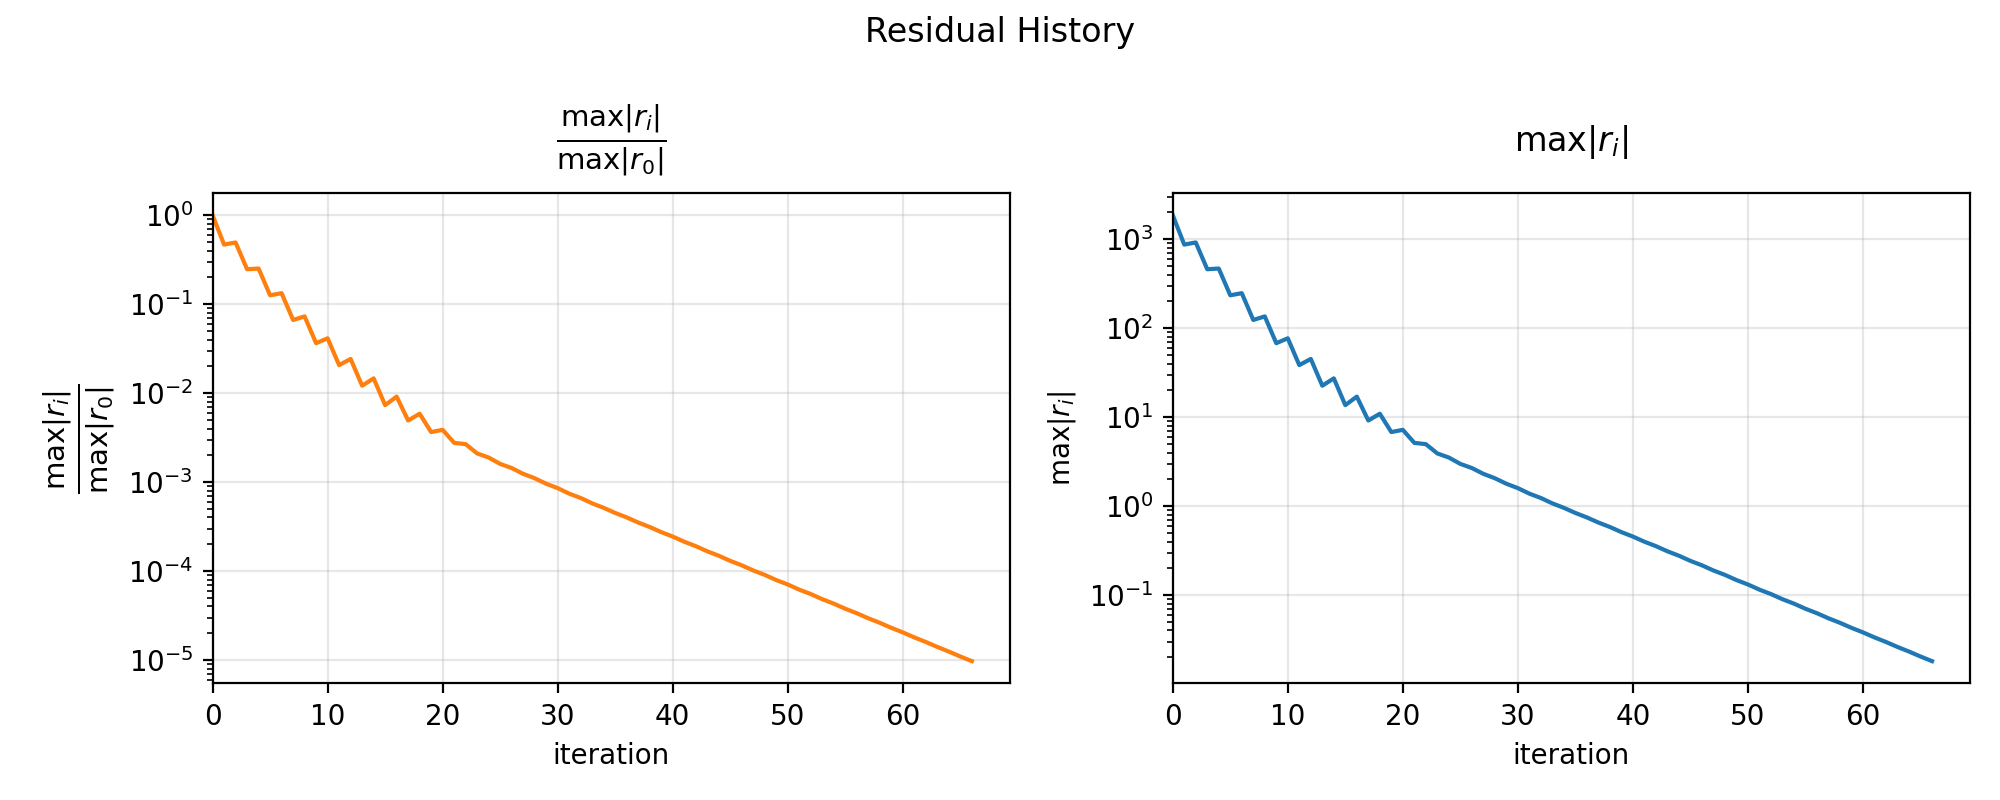
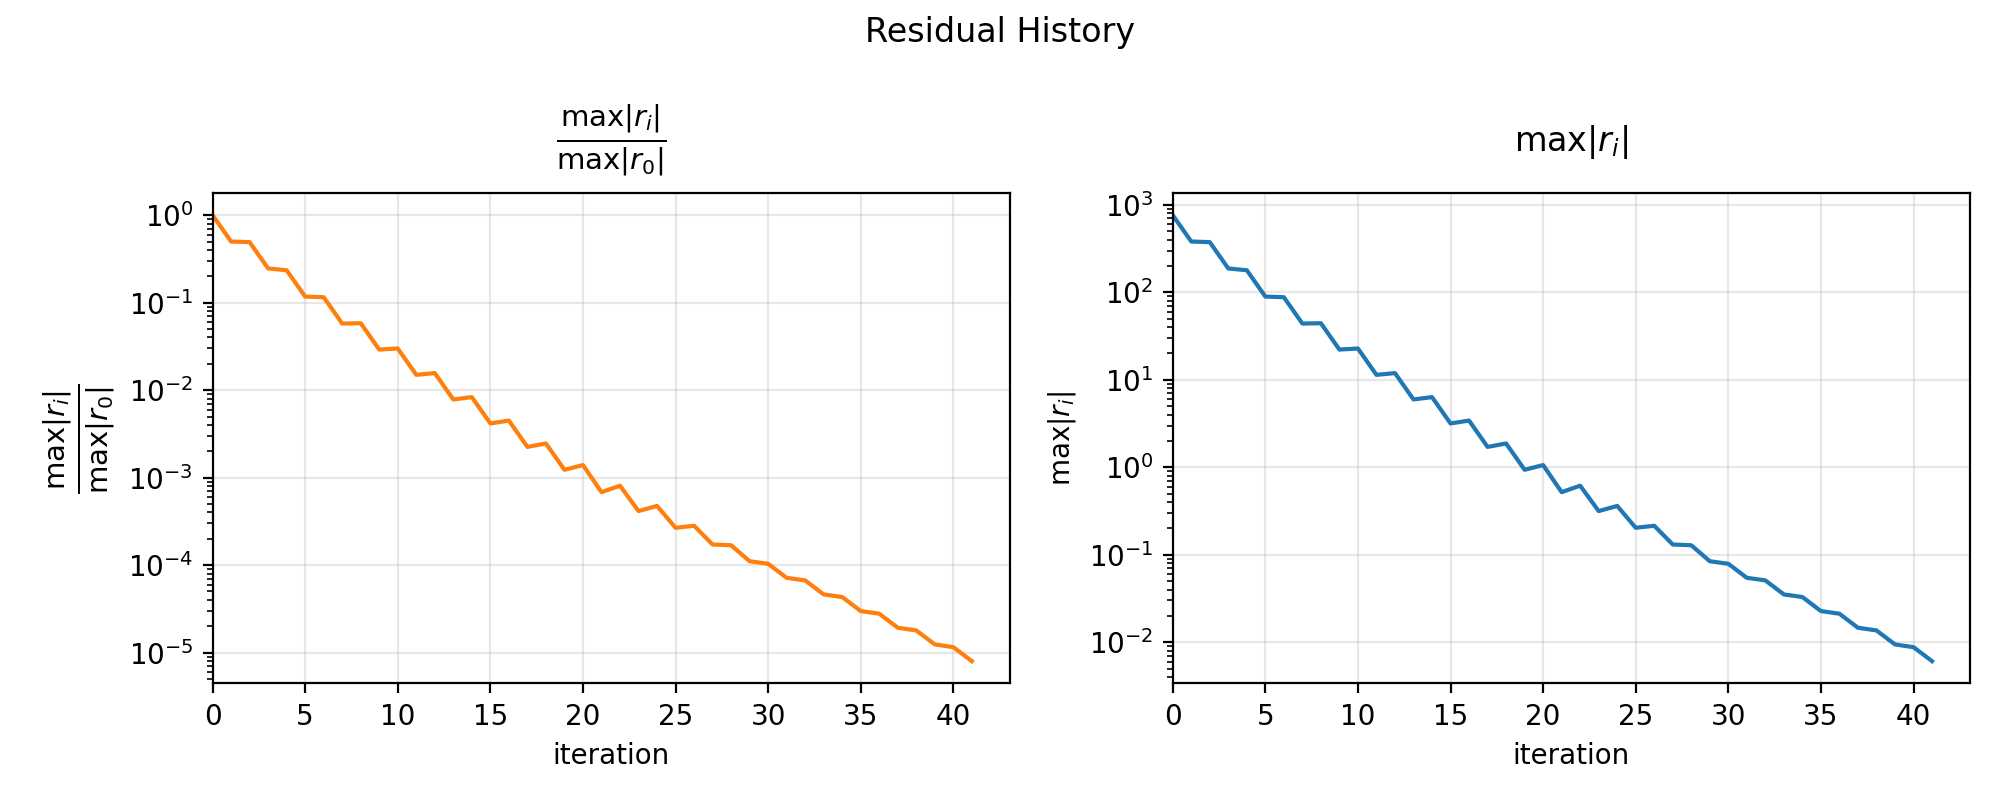
レイアウトBを若干変えた

diff --git a/数値解析学/後半/report/experiments/exp_sor_only_map_b.py b/数値解析学/後半/report/experiments/exp_sor_only_map_b.py
@@ -52,7 +52,7 @@ def main() -> int:
     method = SolveMethod.SOR
 
     # レイアウト読み込みと必須パラメータの検証
-    layout, problem, occ, xs, ys = build_problem_with_grid_size(layout_path, 60, 60)
+    layout, problem, occ, xs, ys = build_problem_with_grid_size(layout_path, 40, 40)
     if layout.world.start is None:
         raise ValueError("start must be set in layout.yaml")
     # ラプラス方程式を SOR で解く（CPU time）
